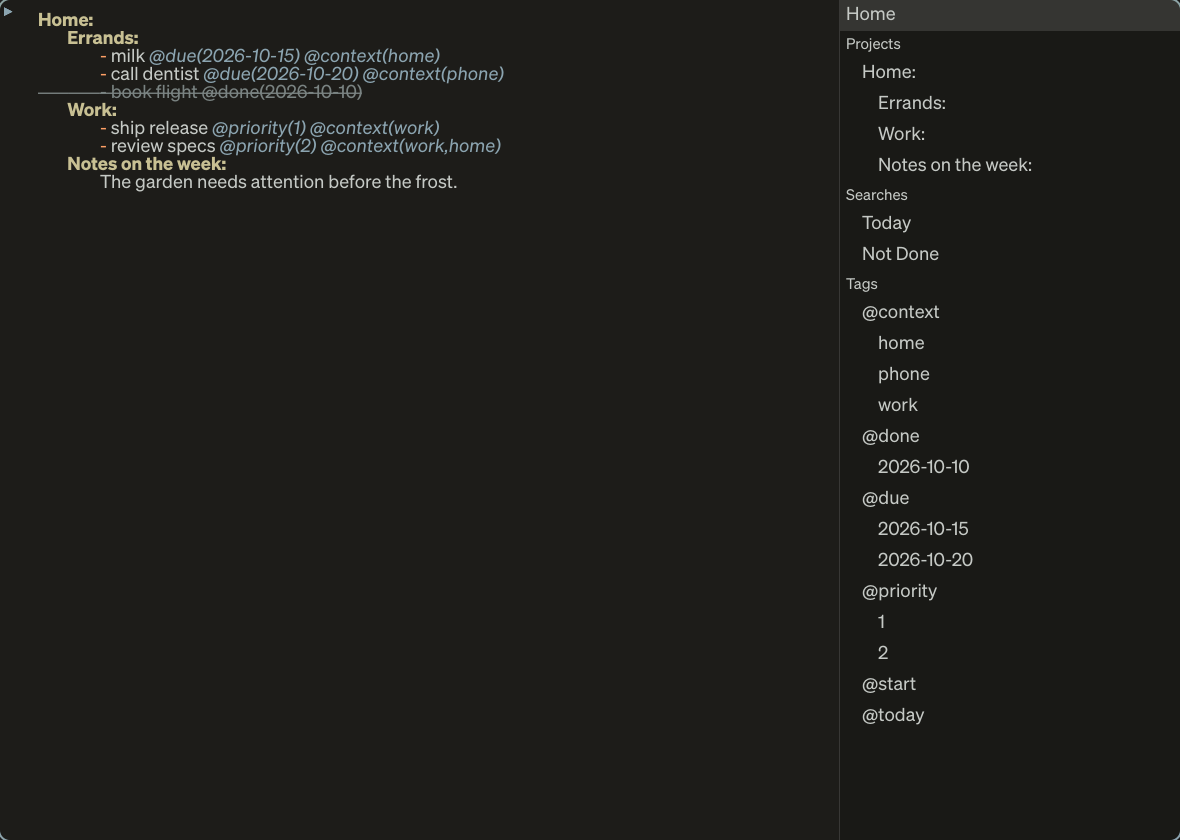
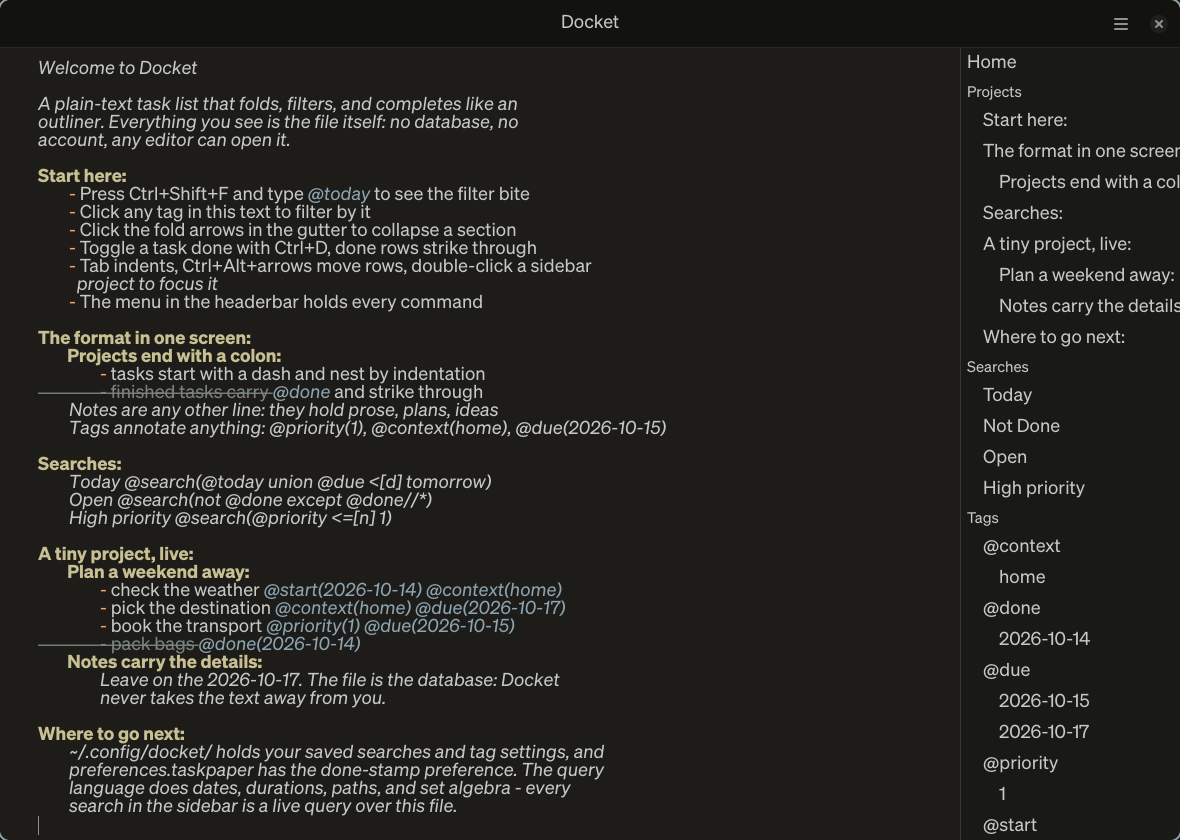
A start page worth opening, and templates to grow into
The welcome document was four lines of instructions; it is now a
working task list that demos the whole app in one screen. Generated
with live dates, so the seeded Today search returns real rows the
moment the app opens: a Start-here checklist teaching by doing, a
one-screen format tour whose done line strikes itself through, an
embedded Searches project with live queries, and a tiny dated
project that exercises priorities, contexts, and the archive.

The document's embedded Searches rows now reach the sidebar (the
spec's either/or, finally wired): config searches come first,
document searches join them by label. The tests pin the start page
as valid idempotent TaskPaper, assert every embedded search parses,
and prove the Today search hits.

New from template mirrors the Quire pattern: a TEMPLATES registry
of bundled files with headless tests (Project plan, This week,
Packing list), a parameterized app.template action, and a menu
section; the action spawns docket --template <name> into a fresh
untitled window, matching the one-window-per-document rule.

The README leads with the start page screenshot, as Quire's does.

diff --git a/crates/docket/src/main.rs b/crates/docket/src/main.rs
@@ -9,6 +9,7 @@ mod fold;
 mod sidebar;
 mod sidecar;
 mod styles;
+mod templates;
 mod welcome;
 
 use gdk::Key;
@@ -58,20 +59,32 @@ thread_local! {
 }
 
 fn main() -> glib::ExitCode {
+    // `docket --template <name>` starts an untitled window from a
+    // shipped template (the New-from-template menu spawns it).
+    let template = std::env::args()
+        .nth(1)
+        .filter(|a| a == "--template")
+        .and_then(|_| std::env::args().nth(2))
+        .or_else(|| {
+            std::env::args()
+                .nth(1)
+                .and_then(|a| a.strip_prefix("--template=").map(|id| id.to_string()))
+        });
+
     let app = Application::builder()
         .application_id(APP_ID)
         .flags(gio::ApplicationFlags::NON_UNIQUE | gio::ApplicationFlags::HANDLES_OPEN)
         .build();
-    app.connect_activate(|app| activate(app, None));
+    app.connect_activate(move |app| activate(app, None, template.as_deref()));
     // Command-line documents arrive here through GApplication.
     app.connect_open(|app, files, _| {
         let path = files.first().and_then(|f| f.path());
-        activate(app, path.as_deref());
+        activate(app, path.as_deref(), None);
     });
     app.run()
 }
 
-fn activate(app: &Application, initial: Option<&Path>) {
+fn activate(app: &Application, initial: Option<&Path>, template: Option<&str>) {
     use vir_gtk::portal;
     portal::init(None, None, true);
     vir_gtk::theme::install_app_stylesheet(&vir_gtk::theme::base_css(
@@ -218,7 +231,10 @@ fn activate(app: &Application, initial: Option<&Path>) {
 
     match initial {
         Some(path) => load_file(&doc, path),
-        None => load_welcome(&doc),
+        None => match template.and_then(template_by_id) {
+            Some(text) => load_untitled(&doc, &text, template.unwrap_or("Template")),
+            None => load_welcome(&doc),
+        },
     }
     window.present();
     // The view holds the keyboard from the start: without this the
@@ -839,6 +855,14 @@ fn fold_hash_line(text: &str, hash: u64) -> Option<usize> {
         .map(|(i, _)| i)
 }
 
+/// The template text for a menu id, case-insensitive.
+fn template_by_id(id: &str) -> Option<String> {
+    templates::TEMPLATES
+        .iter()
+        .find(|(name, _)| name.eq_ignore_ascii_case(id))
+        .map(|(_, text)| (*text).to_string())
+}
+
 fn cmd_archive(doc: &Rc<Doc>) {
     let text = buffer_text(doc).to_string();
     if let Some((new_text, _caret)) = docket_core::edit::archive_done(&text) {
@@ -1117,11 +1141,23 @@ fn load_file(doc: &Rc<Doc>, path: &Path) {
 /// It autosaves nowhere until the user names it.
 fn load_welcome(doc: &Rc<Doc>) {
     *doc.loading.borrow_mut() = true;
-    doc.buffer.set_text(welcome::WELCOME);
+    doc.buffer.set_text(&welcome::welcome());
     *doc.loading.borrow_mut() = false;
     *doc.path.borrow_mut() = None;
     *doc.monitor.borrow_mut() = None;
     doc.window.set_title(Some("Welcome - Docket"));
+    rebuild_sidebar(doc);
+}
+
+/// Load template text into an untitled buffer (no file, no watch);
+/// the save-as dialog names it.
+fn load_untitled(doc: &Rc<Doc>, text: &str, name: &str) {
+    *doc.loading.borrow_mut() = true;
+    doc.buffer.set_text(text);
+    *doc.loading.borrow_mut() = false;
+    *doc.path.borrow_mut() = None;
+    *doc.monitor.borrow_mut() = None;
+    doc.window.set_title(Some(&format!("{name} - Docket")));
     rebuild_sidebar(doc);
 }
 
@@ -1301,6 +1337,22 @@ fn wire_actions(app: &Application, window: &ApplicationWindow, doc: &Rc<Doc>) {
     });
     app.add_action(&new_list);
     app.set_accels_for_action("app.new", &["<Control>n"]);
+
+    // New from template: spawns a fresh process loading the shipped
+    // template untitled (the same window-per-document rule).
+    let template_action = gio::SimpleAction::new("template", Some(glib::VariantTy::STRING));
+    template_action.connect_activate(move |_, payload| {
+        if let Some(id) = payload.and_then(|v| v.str()) {
+            let Ok(exe) = std::env::current_exe() else {
+                return;
+            };
+            let _ = std::process::Command::new(exe)
+                .arg("--template")
+                .arg(id)
+                .spawn();
+        }
+    });
+    app.add_action(&template_action);
 
     // The rest of the command surface: same helpers the keymap
     // calls, reachable from the menu.
@@ -1697,7 +1749,14 @@ fn guard_caret(doc: &Rc<Doc>) {
 fn rebuild_sidebar(doc: &Rc<Doc>) {
     let text = buffer_text(doc).to_string();
     let (include, exclude) = config::tag_lists();
-    let searches = config::searches();
+    // Saved searches: the global config file plus the document's own
+    // embedded `Searches:` rows (the spec's either/or), config first.
+    let mut searches = config::searches();
+    for row in docket_core::census::search_rows(&text) {
+        if !searches.iter().any(|(label, _)| *label == row.label) {
+            searches.push((row.label, row.query));
+        }
+    }
     let model = sidebar::build_model(&text, &searches, &include, &exclude);
     doc.sidebar.rebuild(&model);
 }
@@ -1755,6 +1814,13 @@ fn build_menu() -> gio::Menu {
     file.append(Some("Save list as"), Some("app.save-as"));
     file.append(Some("Quit"), Some("app.quit"));
     menu.append_section(Some("List"), &file);
+
+    let template_section = gio::Menu::new();
+    for (name, _) in templates::TEMPLATES {
+        let escaped = name.replace('\'', "\\'");
+        template_section.append(Some(name), Some(&format!("app.template('{escaped}')")));
+    }
+    menu.append_section(Some("New from template"), &template_section);
 
     let item = gio::Menu::new();
     item.append(Some("Archive done"), Some("app.archive-done"));

diff --git a/crates/docket/src/welcome.rs b/crates/docket/src/welcome.rs
@@ -1,44 +1,79 @@
-//! The first-run document. Docket's own words: the format's rules,
-//! written small enough to read in one screen. Tab-indented, the
-//! way the format nests.
+//! The first-run start page. Docket's own words: a working task
+//! list that demos the format, the folding, the searches, and the
+//! sidebar in one screen. Generated with live dates so the seeded
+//! Today search returns hits the moment the app opens.
 
-pub const WELCOME: &str = "Welcome to Docket\n\
+use docket_core::dates;
+
+/// Today's date in the reference minimal form.
+fn day(offset: i64) -> String {
+    let now = dates::now();
+    let target = dates::parse(&format!("today {offset:+} days"), now)
+        .map(|d| d.0)
+        .unwrap_or(now);
+    dates::format(target)
+}
+
+/// The start page document, dated against now.
+pub fn welcome() -> String {
+    let today = day(0);
+    let tomorrow = day(1);
+    let weekend = day(3);
+
+    format!(
+        "Welcome to Docket\n\
 \n\
-This file is a plain-text task list. Everything you see is the\n\
-file itself: no database, no lock-in, any editor can open it.\n\
-The rules are four:\n\
+A plain-text task list that folds, filters, and completes like an\n\
+outliner. Everything you see is the file itself: no database, no\n\
+account, any editor can open it.\n\
 \n\
-Projects end with a colon:\n\
+Start here:\n\
+\t- Press Ctrl+Shift+F and type @today to see the filter bite\n\
+\t- Click any tag in this text to filter by it\n\
+\t- Click the fold arrows in the gutter to collapse a section\n\
+\t- Toggle a task done with Ctrl+D, done rows strike through\n\
+\t- Tab indents, Ctrl+Alt+arrows move rows, double-click a sidebar\n\
+\t  project to focus it\n\
+\t- The menu in the headerbar holds every command\n\
 \n\
-Errands:\n\
-\tTasks start with a dash and a space:\n\
-\t\t- and indenting nests them under the line above\n\
-\t- mark one finished by adding @done\n\
-\tNotes are any line that is not a project or a task\n\
+The format in one screen:\n\
+\tProjects end with a colon:\n\
+\t\t- tasks start with a dash and nest by indentation\n\
+\t\t- finished tasks carry @done and strike through\n\
+\tNotes are any other line: they hold prose, plans, ideas\n\
+\tTags annotate anything: @priority(1), @context(home), @due({tomorrow})\n\
 \n\
-Tags annotate any line. They can take a value:\n\
+Searches:\n\
+\tToday @search(@today union @due <[d] tomorrow)\n\
+\tOpen @search(not @done except @done//*)\n\
+\tHigh priority @search(@priority <=[n] 1)\n\
 \n\
-\t- file taxes @due(2027-04-15) @priority(1)\n\
+A tiny project, live:\n\
+\tPlan a weekend away:\n\
+\t\t- check the weather @start({today}) @context(home)\n\
+\t\t- pick the destination @context(home) @due({weekend})\n\
+\t\t- book the transport @priority(1) @due({tomorrow})\n\
+\t\t- pack bags @done({today})\n\
+\tNotes carry the details:\n\
+\t\tLeave on the {weekend}. The file is the database: Docket\n\
+\t\tnever takes the text away from you.\n\
 \n\
-The format even has a search language for tags and text:\n\
-\n\
-\t@priority(1) and not @done\n\
-\tproject Errands @due <[d] next month\n\
-\n\
-(These run live in Docket's search bar under Ctrl+Shift+F.)\n\
-\n\
-Everything saves as you type. Press Ctrl+O to open a list, or\n\
-Ctrl+Shift+S to give this one a name.\n";
+Where to go next:\n\
+\t~/.config/docket/ holds your saved searches and tag settings, and\n\
+\tpreferences.taskpaper has the done-stamp preference. The query\n\
+\tlanguage does dates, durations, paths, and set algebra - every\n\
+\tsearch in the sidebar is a live query over this file.\n"
+    )
+}
 
 #[cfg(test)]
 mod tests {
-    use super::WELCOME;
-    use docket_core::Document;
+    use docket_core::{Document, Query, census};
 
     #[test]
-    fn the_welcome_document_is_valid_taskpaper() {
-        let doc = Document::load(WELCOME);
-        // Parseable and idempotent: the first-run document must be a
+    fn the_start_page_is_valid_taskpaper() {
+        let doc = Document::load(&super::welcome());
+        // Parseable and idempotent: the start page must be a
         // well-formed .taskpaper file.
         let once = doc.serialize();
         assert_eq!(Document::load(&once).serialize(), once);
@@ -47,5 +82,29 @@ mod tests {
         assert!(kinds.contains(&docket_core::ItemKind::Project));
         assert!(kinds.contains(&docket_core::ItemKind::Task));
         assert!(kinds.contains(&docket_core::ItemKind::Note));
+    }
+
+    #[test]
+    fn the_start_page_searches_all_parse() {
+        // Every embedded saved search is a live query; a parse
+        // failure would ship a broken sidebar row.
+        for row in census::search_rows(&super::welcome()) {
+            assert!(
+                Query::parse(&row.query).is_ok(),
+                "embedded search {:?} does not parse",
+                row.label
+            );
+        }
+    }
+
+    #[test]
+    fn the_today_search_hits_the_start_page() {
+        // The point of the live dates: the seeded Today search
+        // returns real rows on first open.
+        let doc = Document::load(&super::welcome());
+        let results = Query::parse("@today union @due <[d] tomorrow")
+            .unwrap()
+            .run(&doc);
+        assert!(!results.is_empty());
     }
 }

diff --git a/crates/docket/src/templates.rs b/crates/docket/src/templates.rs
@@ -1,0 +1,45 @@
+//! Shipped list templates (the Quire mirror): a planning skeleton,
+//! a weekly dashboard, and a packing list. Headless on purpose:
+//! every template must parse, round-trip idempotently, and carry
+//! no broken structure.
+
+pub const TEMPLATES: &[(&str, &str)] = &[
+    (
+        "Project plan",
+        include_str!("../resources/templates/project-plan.taskpaper"),
+    ),
+    (
+        "This week",
+        include_str!("../resources/templates/week.taskpaper"),
+    ),
+    (
+        "Packing list",
+        include_str!("../resources/templates/packing.taskpaper"),
+    ),
+];
+
+#[cfg(test)]
+mod tests {
+    use docket_core::Document;
+
+    /// A shipped template is a working document: it parses,
+    /// round-trips byte-for-byte from the second pass, and
+    /// demonstrates at least one project.
+    #[test]
+    fn templates_are_well_formed_documents() {
+        for (name, text) in super::TEMPLATES {
+            let doc = Document::load(text);
+            let once = doc.serialize();
+            assert_eq!(
+                Document::load(&once).serialize(),
+                once,
+                "{name} does not round-trip"
+            );
+            let kinds: Vec<_> = doc.items.iter().map(|i| i.kind()).collect();
+            assert!(
+                kinds.contains(&docket_core::ItemKind::Project),
+                "{name} shows no project"
+            );
+        }
+    }
+}

diff --git a/README.md b/README.md
@@ -7,6 +7,10 @@ Your files stay plain text that any editor can open; Docket makes
 them look, fold, and filter like an outliner without ever taking the
 text away from you.
 
+<p align="center">
+  <img src="data/screenshots/docket-dark.png" alt="Docket: the start page with a working checklist, live searches, tags, and the sidebar" width="880">
+</p>
+
 The design contract lives in [spec.md](spec.md); the work plan in
 [roadmap.md](roadmap.md).
 
